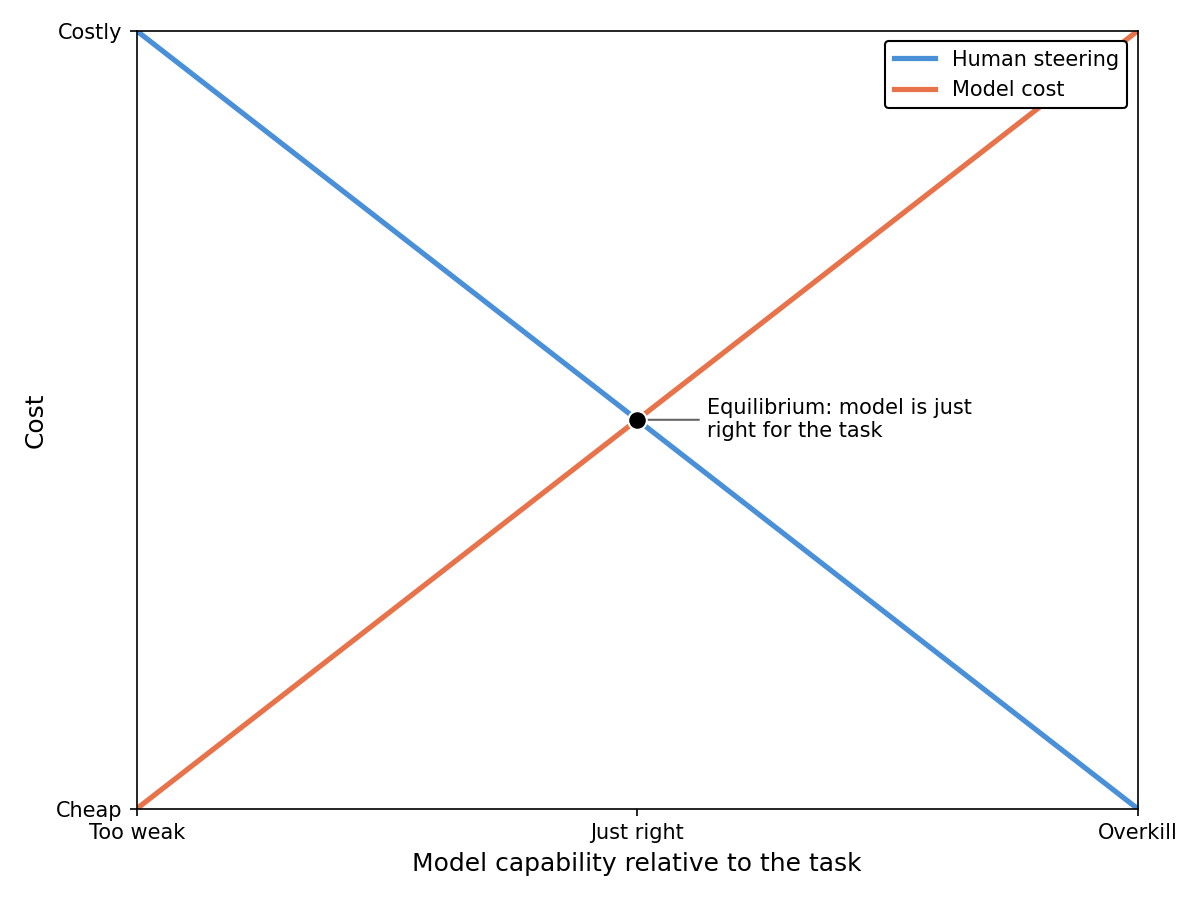
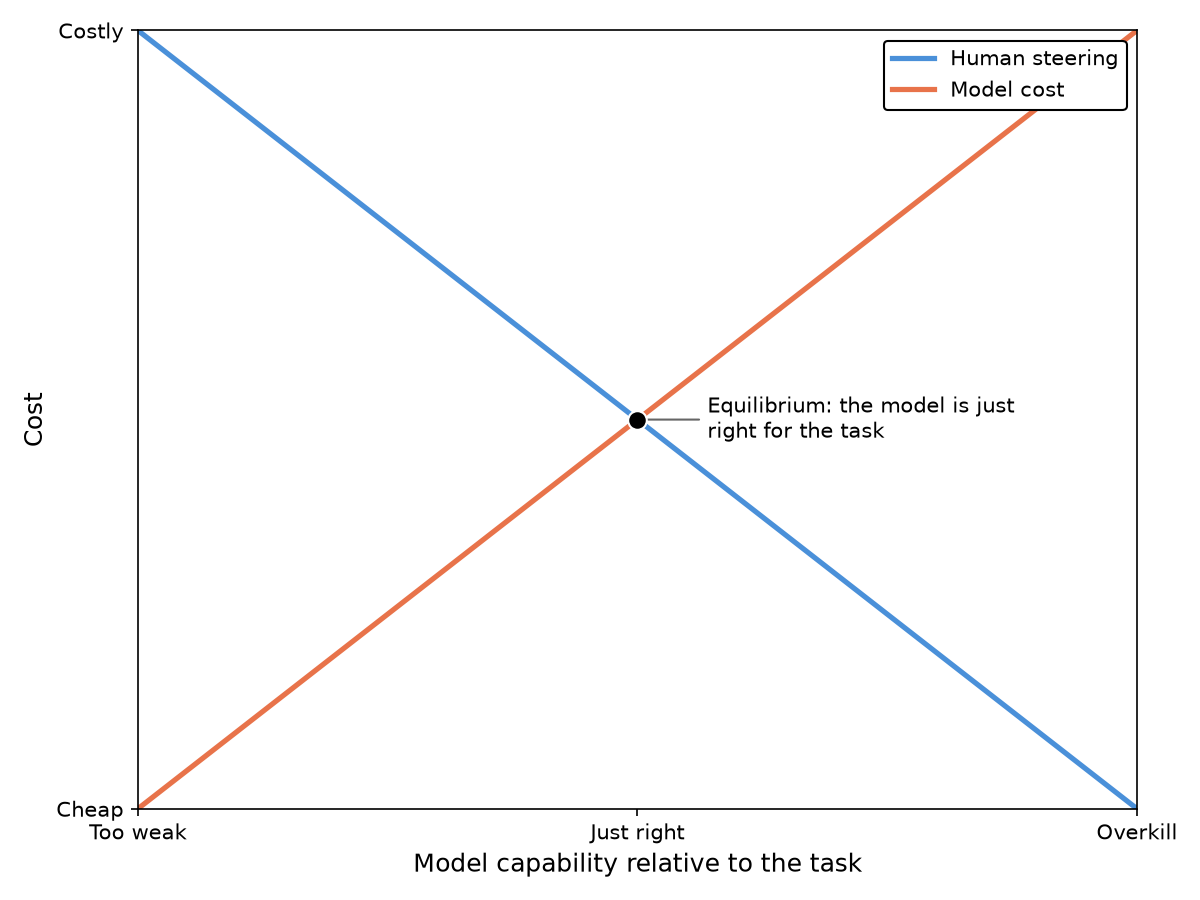
reordering the dwl parallels to flow with each other

diff --git a/blog/capabilities/index.html b/blog/capabilities/index.html
@@ -3,7 +3,7 @@
 <head>
     <meta charset="utf-8"/>
     <meta name="viewport" content="width=device-width, initial-scale=1"/>
-    <meta name="source-hash" content="87ae42bd53376280"/>
+    <meta name="source-hash" content="706540face4b3a30"/>
     <title>Deadweight Loss in AI</title>
     <script src="/dist/theme.js"></script>
     <script>try { localStorage.setItem('locale', 'en'); } catch (e) {}</script>
@@ -127,12 +127,20 @@
 <p>The practical argument is that if token spend wasn&#39;t a concern, it would probably be faster if you used a smaller model. Like if Cursor&#39;s Composer did it in 10 seconds rather than have Astra think for a minute. </p>
 <p>Even if your smart model was ultra fast, that is very expensive right now, so the economic argument still holds: others <em>could</em> do the same thing just as fast for cheaper if we had the systems to transfer context efficiently and on the spot. </p>
 <p>I see this mattering in the short to medium term but not long term. </p>
-<p>In the short to medium term, when token subsidies stop, a system to auto-route prompts and tasks will become valuable to save unnecessary spending and time. Both for employees using AI and systems within companies that are heavily token-subsidized<sup><a id="footnote-ref-5" href="#footnote-5" data-footnote-ref aria-describedby="footnote-label">5</a></sup>. </p>
-<p>Long-term, I expect frontier intelligence to become too cheap to meter and very fast. I call this a &#39;terminal&#39; class of models. A Swiss Army knife, if you will, that works well for &gt;= 90% of tasks and doesn&#39;t cost anything to run (likeliest because it would use your phone or computer). The remaining 10% won&#39;t be tasks the model can&#39;t do, but tasks we wouldn&#39;t let it do alone, like aligning itself or controlling nuclear weapons. These fields will still need humans.</p>
-<p>In that scenario, everyone might as well use the same model for everything a model can legally do, discounting for differences in style and presentation. This is my definition of AGI. </p>
+<p>In the short to medium term, a system to auto-route prompts and tasks will become valuable to save unnecessary spending and time, especially if the token subsidies stop. Both for people using AI and systems within companies that are heavily token-subsidized<sup><a id="footnote-ref-5" href="#footnote-5" data-footnote-ref aria-describedby="footnote-label">5</a></sup>. </p>
+<p>Long-term, I expect frontier intelligence to become too cheap to meter and very fast. I call this a &#39;terminal&#39; class of models. Swiss Army knives that work well for &gt;= 90% of tasks and are near free to run (likeliest because they would use your phone or computer). The remaining 10% won&#39;t be tasks the model can&#39;t do, but tasks we wouldn&#39;t let it do alone, like aligning itself or controlling nuclear weapons. These fields will still need humans.</p>
 <p>Empirically, we&#39;ve seen progress in this direction when labs release smaller versions of their frontier models (Fable from Mythos, GPT 6.1 Sol from Astra) that are similarly capable for cheaper<sup><a id="footnote-ref-6" href="#footnote-6" data-footnote-ref aria-describedby="footnote-label">6</a></sup>. </p>
+<p>What about DWL on the left side of the graph?</p>
+<p>I was recently experimenting with the Qwen family of models, running them locally on my computer with Ollama. It was disappointing. They know a lot and can pull off impressive tricks for a small model, but as soon as you throw a real task at them, they blow their context budgets overthinking unnecessary details.</p>
+<p><img src="/blog/assets/figures/en/human-model-underreliance.png" data-light-src="/blog/assets/figures/en/human-model-underreliance-light.png" alt="Deadweight loss on the left side of the human steering and model cost graph, where a small model needs heavy human guidance." title="Deadweight Loss From an Underpowered Model"></p>
+<p>I could only get them to do what I wanted by pointing out the exact lines of code they had to look at. I even had to change some code by hand because even though I&#39;d tell them five times in a row to execute the change, it just thought, and thought, until its context overflowed. </p>
+<p>It also took me considerably longer to finish my project with Qwen because it needed so much handholding. I knew frontier models would&#39;ve done the task with a single prompt<sup><a id="footnote-ref-7" href="#footnote-7" data-footnote-ref aria-describedby="footnote-label">7</a></sup>. My mental load was heavier too: it is so much simpler to just prompt your way through with a frontier model. You don&#39;t really need to think. </p>
+<p>Though, in my case, I was using a small model for the sake of experimentation. In the real world, DWL on the left is visible on tasks that the models aren&#39;t good at <em>yet</em>. Like the odd finance and ML research benchmarks or some computer use tasks. You still need people reviewing the models&#39; outputs and steering them.</p>
+<p>If accuracy can be quantified and the task is economically valuable, it will be conquered eventually, likeliest first at the frontier, shifting to the right. This is true of tasks where labs and startups have an interest in introducing automation. It&#39;s part of the diffusion process. </p>
+<p>In the graph, the equilibrium makes sense if you think about it as the model with the best speed, price, and intelligence for the task. </p>
+<p><img src="/blog/assets/figures/en/human-model-equilibrium.png" data-light-src="/blog/assets/figures/en/human-model-equilibrium-light.png" alt="Equilibrium between human steering and model cost, where the model is just right for the task." title="Equilibrium Between Human Steering and Model Cost"></p>
 <p>A &quot;DWL-optimized harness&quot; will be useful until we have terminal models, as costly intelligence diffuses to the economy and token usage grows by many orders of magnitude. Or indefinitely if governments introduce regulation that stalls the development of a terminal model and we settle into a status quo.</p>
-<p>It will make most tasks near free, fast, runnable on edge hardware<sup><a id="footnote-ref-7" href="#footnote-7" data-footnote-ref aria-describedby="footnote-label">7</a></sup>, and routable to the cloud when necessary. I see three technical challenges in the way:</p>
+<p>It will make most tasks near free, fast, runnable on edge hardware<sup><a id="footnote-ref-8" href="#footnote-8" data-footnote-ref aria-describedby="footnote-label">8</a></sup>, and routable to the cloud when necessary. I see three technical challenges in the way:</p>
 <ul>
 <li>Transferring context efficiently: how to transfer context between models at as close to zero cost and latency as possible. This matters for individual tasks and threads.</li>
 <li>Parallelism: if many models are doing many tasks, how can inference engines maximize GPU utilization and KV Cache / model weights offloading and reloading so every watt of compute is utilized constantly?</li>
@@ -141,16 +149,8 @@
 <p>I expect that while intelligence is subsidized, companies and individuals will keep using frontier models because it feels like the safe choice and requires less steering. Budget-conscious organizations will make their own evals and perhaps even RL small models on them (like <a href="https://x.com/RampLabs/status/2052447438795833506">Ramp</a> did). </p>
 <p>But to diffuse AI into the wider economy, much work needs to be done on simple-to-use optimizers that small and medium-sized organizations can use to save on their token spend, both for individuals within an organization and for specific tasks. </p>
 <p>Paraphrased: Jev might be very cheap but your average store clerk or non-profit worker isn&#39;t gonna get an API key and make an eval to see if it beats Astra at their classification task. They&#39;d rather press a button or ask their agent and see the results to choose from.</p>
-<p>In the graph, the equilibrium makes sense if you think about it as the model with the best speed, price, and intelligence for the task. Getting there takes human effort: setting up the infrastructure and evals to find that model (both pre-selecting it or changing it at runtime). Whereas using a frontier model saves you the work but costs a lot.</p>
-<p><img src="/blog/assets/figures/en/human-model-equilibrium.png" data-light-src="/blog/assets/figures/en/human-model-equilibrium-light.png" alt="Equilibrium between human steering and model cost, where the model is just right for the task." title="Equilibrium Between Human Steering and Model Cost"></p>
+<p>Getting there takes human effort: setting up the infrastructure and evals to find that model (both pre-selecting it or changing it at runtime). Whereas using a frontier model saves you the work but costs a lot.</p>
 <p>I expect this to change with harnesses that auto-route and simpler infrastructure for evaluating and training task-specific models. It is also nice that this is a defined engineering effort. If we get it right once, everyone benefits.</p>
-<p>What about DWL on the left side of the graph?</p>
-<p>I was recently experimenting with the Qwen family of models, running them locally on my computer with Ollama. It was disappointing. They know a lot and can pull off impressive tricks for a small model, but as soon as you throw a real task at them, they blow their context budgets overthinking unnecessary details.</p>
-<p><img src="/blog/assets/figures/en/human-model-underreliance.png" data-light-src="/blog/assets/figures/en/human-model-underreliance-light.png" alt="Deadweight loss on the left side of the human steering and model cost graph, where a small model needs heavy human guidance." title="Deadweight Loss From an Underpowered Model"></p>
-<p>I could only get them to do what I wanted by pointing out the exact lines of code they had to look at. I even had to change some code by hand because even though I&#39;d tell them five times in a row to execute the change, it just thought, and thought, until its context overflowed. </p>
-<p>Another dimension the graph doesn&#39;t capture is time<sup><a id="footnote-ref-8" href="#footnote-8" data-footnote-ref aria-describedby="footnote-label">8</a></sup>. It took me considerably longer to finish my project with Qwen because it needed so much handholding. I knew frontier models would&#39;ve been done in way less time. It also doesn&#39;t capture the difference in mental load: it is so much easier to prompt your way through. You don&#39;t really need to think. </p>
-<p>Though, in my case, I chose to work my way through it because I wanted to experiment. In the real world, DWL on the left is visible on tasks that the models aren&#39;t good at <em>yet</em>. The odd finance benchmarks, ML research benchmarks, and computer use tasks. You still need people reviewing and steering the model&#39;s outputs. </p>
-<p>If accuracy can be quantified and the task is economically valuable, it will be conquered eventually, likeliest first at the frontier, shifting to the right. This is true of tasks where labs and startups have an interest in introducing automation. It&#39;s part of the diffusion process. </p>
 <p>The analogy also doesn&#39;t capture some qualitative aspects of models. Like how I&#39;d rather use Claude for anything conversational, or Codex for computer use. It doesn&#39;t capture how people begin to trust that a model will get it right 90% of the time and use it for specific work.</p>
 <p>It discounts qualitative differences in the character of different model lines. This is partly reconciled if we think of the x-axis as a model family, e.g., Haiku being underpowered, Sonnet generally balanced, and Opus often overkill.</p>
 <p>Together, both parts of the graph paint a cohesive story: the frontier will lay the groundwork at the toughest challenges in an expensive, inefficient way, while diffusion makes them economically viable and fast.</p>
@@ -204,10 +204,10 @@ require skills outside the scope of optimization (see <a href="https://asteriskm
 <p>Though the scaling laws - especially test-time compute scaling - would suggest existing architectures won&#39;t suffice to reach a terminal model, because they trade off speed for intelligence. <a href="#footnote-ref-6" data-footnote-backref aria-label="Back to reference 6">↩</a></p>
 </li>
 <li id="footnote-7">
-<p>Some early glimpses of inference at the edge are starting to show, as Anthropic detailed in <a href="https://www.anthropic.com/research/self-replicating-ai">this</a> recent report. I expect phones and laptops to do most inference within this decade. <a href="#footnote-ref-7" data-footnote-backref aria-label="Back to reference 7">↩</a></p>
+<p>As Naval <a href="https://www.youtube.com/shorts/x-P119dx8xM">said</a>: &#39;waste tokens to save time&#39;. <a href="#footnote-ref-7" data-footnote-backref aria-label="Back to reference 7">↩</a></p>
 </li>
 <li id="footnote-8">
-<p>As Naval <a href="https://www.youtube.com/shorts/x-P119dx8xM">said</a>: &#39;waste tokens to save time&#39;. <a href="#footnote-ref-8" data-footnote-backref aria-label="Back to reference 8">↩</a></p>
+<p>Some early glimpses of inference at the edge are starting to show, as Anthropic detailed in <a href="https://www.anthropic.com/research/self-replicating-ai">this</a> recent report. I expect phones and laptops to do most inference within this decade. <a href="#footnote-ref-8" data-footnote-backref aria-label="Back to reference 8">↩</a></p>
 </li>
 <li id="footnote-9">
 <p>This is already true in some domains, just not frictionless yet. <a href="#footnote-ref-9" data-footnote-backref aria-label="Back to reference 9">↩</a></p>

diff --git a/blog/assets/code/supply-demand-curves.py b/blog/assets/code/supply-demand-curves.py
@@ -54,7 +54,7 @@ LOCALE_LABELS = {
         'point': '(Costs {price} and {quantity} buy it. Net = {net})',
         'sold': '({quantity} sold at {price}. Net = {net})',
         'equilibrium_net': 'Equilibrium: {net}',
-        'equilibrium_model': 'Equilibrium: model is just\nright for the task',
+        'equilibrium_model': 'Equilibrium: the model is just\nright for the task',
         'steers_cheap': '(Human steers {steering}% of the way.\nModel is cheap)',
         'steers_costly': '(Human steers {steering}% of the way.\nModel is costly)',
         'dwl': 'DWL',

diff --git a/blog/posts/capabilities.md b/blog/posts/capabilities.md
@@ -84,17 +84,33 @@ Even if your smart model was ultra fast, that is very expensive right now, so th
 
 I see this mattering in the short to medium term but not long term. 
 
-In the short to medium term, when token subsidies stop, a system to auto-route prompts and tasks will become valuable to save unnecessary spending and time. Both for employees using AI and systems within companies that are heavily token-subsidized[^5]. 
+In the short to medium term, a system to auto-route prompts and tasks will become valuable to save unnecessary spending and time, especially if the token subsidies stop. Both for people using AI and systems within companies that are heavily token-subsidized[^5]. 
 
-Long-term, I expect frontier intelligence to become too cheap to meter and very fast. I call this a 'terminal' class of models. A Swiss Army knife, if you will, that works well for >= 90% of tasks and doesn't cost anything to run (likeliest because it would use your phone or computer). The remaining 10% won't be tasks the model can't do, but tasks we wouldn't let it do alone, like aligning itself or controlling nuclear weapons. These fields will still need humans.
-
-In that scenario, everyone might as well use the same model for everything a model can legally do, discounting for differences in style and presentation. This is my definition of AGI. 
+Long-term, I expect frontier intelligence to become too cheap to meter and very fast. I call this a 'terminal' class of models. Swiss Army knives that work well for >= 90% of tasks and are near free to run (likeliest because they would use your phone or computer). The remaining 10% won't be tasks the model can't do, but tasks we wouldn't let it do alone, like aligning itself or controlling nuclear weapons. These fields will still need humans.
 
 Empirically, we've seen progress in this direction when labs release smaller versions of their frontier models (Fable from Mythos, GPT 6.1 Sol from Astra) that are similarly capable for cheaper[^6]. 
 
+What about DWL on the left side of the graph?
+
+I was recently experimenting with the Qwen family of models, running them locally on my computer with Ollama. It was disappointing. They know a lot and can pull off impressive tricks for a small model, but as soon as you throw a real task at them, they blow their context budgets overthinking unnecessary details.
+
+![Deadweight loss on the left side of the human steering and model cost graph, where a small model needs heavy human guidance.](/blog/assets/figures/en/human-model-underreliance.png "Deadweight Loss From an Underpowered Model")
+
+I could only get them to do what I wanted by pointing out the exact lines of code they had to look at. I even had to change some code by hand because even though I'd tell them five times in a row to execute the change, it just thought, and thought, until its context overflowed. 
+
+It also took me considerably longer to finish my project with Qwen because it needed so much handholding. I knew frontier models would've done the task with a single prompt[^7]. My mental load was heavier too: it is so much simpler to just prompt your way through with a frontier model. You don't really need to think. 
+
+Though, in my case, I was using a small model for the sake of experimentation. In the real world, DWL on the left is visible on tasks that the models aren't good at *yet*. Like the odd finance and ML research benchmarks or some computer use tasks. You still need people reviewing the models' outputs and steering them.
+
+If accuracy can be quantified and the task is economically valuable, it will be conquered eventually, likeliest first at the frontier, shifting to the right. This is true of tasks where labs and startups have an interest in introducing automation. It's part of the diffusion process. 
+
+In the graph, the equilibrium makes sense if you think about it as the model with the best speed, price, and intelligence for the task. 
+
+![Equilibrium between human steering and model cost, where the model is just right for the task.](/blog/assets/figures/en/human-model-equilibrium.png "Equilibrium Between Human Steering and Model Cost")
+
 A "DWL-optimized harness" will be useful until we have terminal models, as costly intelligence diffuses to the economy and token usage grows by many orders of magnitude. Or indefinitely if governments introduce regulation that stalls the development of a terminal model and we settle into a status quo.
 
-It will make most tasks near free, fast, runnable on edge hardware[^7], and routable to the cloud when necessary. I see three technical challenges in the way:
+It will make most tasks near free, fast, runnable on edge hardware[^8], and routable to the cloud when necessary. I see three technical challenges in the way:
 
 - Transferring context efficiently: how to transfer context between models at as close to zero cost and latency as possible. This matters for individual tasks and threads.
 - Parallelism: if many models are doing many tasks, how can inference engines maximize GPU utilization and KV Cache / model weights offloading and reloading so every watt of compute is utilized constantly?
@@ -106,25 +122,9 @@ But to diffuse AI into the wider economy, much work needs to be done on simple-t
 
 Paraphrased: Jev might be very cheap but your average store clerk or non-profit worker isn't gonna get an API key and make an eval to see if it beats Astra at their classification task. They'd rather press a button or ask their agent and see the results to choose from.
 
-In the graph, the equilibrium makes sense if you think about it as the model with the best speed, price, and intelligence for the task. Getting there takes human effort: setting up the infrastructure and evals to find that model (both pre-selecting it or changing it at runtime). Whereas using a frontier model saves you the work but costs a lot.
-
-![Equilibrium between human steering and model cost, where the model is just right for the task.](/blog/assets/figures/en/human-model-equilibrium.png "Equilibrium Between Human Steering and Model Cost")
+Getting there takes human effort: setting up the infrastructure and evals to find that model (both pre-selecting it or changing it at runtime). Whereas using a frontier model saves you the work but costs a lot.
 
 I expect this to change with harnesses that auto-route and simpler infrastructure for evaluating and training task-specific models. It is also nice that this is a defined engineering effort. If we get it right once, everyone benefits.
-
-What about DWL on the left side of the graph?
-
-I was recently experimenting with the Qwen family of models, running them locally on my computer with Ollama. It was disappointing. They know a lot and can pull off impressive tricks for a small model, but as soon as you throw a real task at them, they blow their context budgets overthinking unnecessary details.
-
-![Deadweight loss on the left side of the human steering and model cost graph, where a small model needs heavy human guidance.](/blog/assets/figures/en/human-model-underreliance.png "Deadweight Loss From an Underpowered Model")
-
-I could only get them to do what I wanted by pointing out the exact lines of code they had to look at. I even had to change some code by hand because even though I'd tell them five times in a row to execute the change, it just thought, and thought, until its context overflowed. 
-
-Another dimension the graph doesn't capture is time[^8]. It took me considerably longer to finish my project with Qwen because it needed so much handholding. I knew frontier models would've been done in way less time. It also doesn't capture the difference in mental load: it is so much easier to prompt your way through. You don't really need to think. 
-
-Though, in my case, I chose to work my way through it because I wanted to experiment. In the real world, DWL on the left is visible on tasks that the models aren't good at *yet*. The odd finance benchmarks, ML research benchmarks, and computer use tasks. You still need people reviewing and steering the model's outputs. 
-
-If accuracy can be quantified and the task is economically valuable, it will be conquered eventually, likeliest first at the frontier, shifting to the right. This is true of tasks where labs and startups have an interest in introducing automation. It's part of the diffusion process. 
 
 The analogy also doesn't capture some qualitative aspects of models. Like how I'd rather use Claude for anything conversational, or Codex for computer use. It doesn't capture how people begin to trust that a model will get it right 90% of the time and use it for specific work.
 
@@ -193,8 +193,8 @@ You'd have needed an economist that's into AI or a computer scientist that reads
 
 [^6]: Though the scaling laws - especially test-time compute scaling - would suggest existing architectures won't suffice to reach a terminal model, because they trade off speed for intelligence.
 
-[^7]: Some early glimpses of inference at the edge are starting to show, as Anthropic detailed in [this](https://www.anthropic.com/research/self-replicating-ai) recent report. I expect phones and laptops to do most inference within this decade.
+[^7]: As Naval [said](https://www.youtube.com/shorts/x-P119dx8xM): 'waste tokens to save time'.
 
-[^8]: As Naval [said](https://www.youtube.com/shorts/x-P119dx8xM): 'waste tokens to save time'.
+[^8]: Some early glimpses of inference at the edge are starting to show, as Anthropic detailed in [this](https://www.anthropic.com/research/self-replicating-ai) recent report. I expect phones and laptops to do most inference within this decade.
 
 [^9]: This is already true in some domains, just not frictionless yet.
